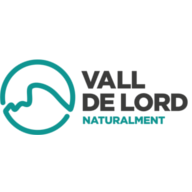
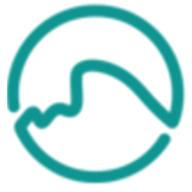
versió final app 0.1

diff --git a/src/pages/localitzacions/localitzacions.ts b/src/pages/localitzacions/localitzacions.ts
@@ -4,6 +4,7 @@ import { Component } from '@angular/core';
 import { IonicPage, NavController, NavParams } from 'ionic-angular';
 import { Geolocation, Coordinates} from '@ionic-native/geolocation';
 import { Platform } from 'ionic-angular';
+import { LoadingController } from 'ionic-angular';
 import { NgPipesModule } from 'ngx-pipes';
 import {ReversePipe} from 'ngx-pipes/src/app/pipes/array/reverse';
 import { DatabaseProvider } from '../../providers/database/database';
@@ -25,6 +26,7 @@ import 'rxjs/add/operator/map';
 })
 export class LocalitzacionsPage {
   localitzacions: Array<any>;
+  private loading: any;
   public items: any;
   //private coords: Coordinates = null;
   map: any;
@@ -36,12 +38,19 @@ export class LocalitzacionsPage {
     public navParams: NavParams,
     private http:Http,
     private geolocation: Geolocation,
-    public  platform: Platform
+    public  platform: Platform,
+    public loadingController: LoadingController
   ) {
-    
+
     platform.ready().then(() => {
+
       // La plataforma esta lista y ya tenemos acceso a los plugins.
       this.obtenerPosicion();
+      this.loading = this.loadingController.create({
+        content: 'Carregant...'
+      });
+
+      this.loading.present();
       this.searchLocalitzacio(this.coords.lat,this.coords.lng);
     });
   }
@@ -57,6 +66,7 @@ export class LocalitzacionsPage {
   searchLocalitzacio(lat,lon){
     this.DatabaseProvider.getLocalitzacions(lat,lon).subscribe(
       data => {
+
         //SERVER_NAME_APP_TEST servidor online
         //SERVER_NAME_LOCAL servudor local
         //SERVER_NAME_PROXY proxy
@@ -64,11 +74,13 @@ export class LocalitzacionsPage {
         this.items = JSON.parse(data['_body']);
         this.items.image = url+this.items.image;
         console.dir(this.items);
+        this.loading.dismiss();
         },
 				err => {
 					console.log("Error: " + err);
 				},
 () => console.log('Movie Search Complete')
+
 );
   }
   ionViewDidLoad() {

diff --git a/src/pages/localitzacions/localitzacions.html b/src/pages/localitzacions/localitzacions.html
@@ -5,19 +5,20 @@
   Ionic pages and navigation.
 -->
 <ion-header>
-
   <ion-navbar>
-    <ion-title>localitzacions</ion-title>
+    <ion-title>
+      <img src="assets/img/logo-vdl-mini.png"/> Punts d'interès
+    </ion-title>
   </ion-navbar>
-
 </ion-header>
 
 
-<ion-content padding>
-  <button ion-button color="secondary" (click)="obtenerPosicion()">Iniciar</button>
+<ion-content padding class="home_background">
+
   <h2>Latitud: {{coords.lat}}</h2>
   <h2>Longitud: {{coords.lng}}</h2>
-  <!--<ion-item>
+  <!--<button ion-button color="secondary" (click)="obtenerPosicion()">Iniciar</button>
+  <ion-item>
   <button ion-button color="secondary" (click)="searchLocalitzacio(1.234,12.444)">Go To next</button><br>
   <span id="prova">xxxx</span><br>
 </ion-item>-->
@@ -53,9 +54,9 @@
         <h3>Longitud :{{item.longitud}}</h3>
       </ion-col>
     </ion-row>
-    <ion-row>
+    <ion-col>
       <h3>Distancia :{{item.distancia}}</h3>
-    </ion-row>
+    </ion-col>
 
   </ion-card>
 </ion-content>

diff --git a/src/pages/home/home.html b/src/pages/home/home.html
@@ -1,7 +1,7 @@
 <ion-header>
   <ion-navbar>
     <ion-title>
-      <img src="assets/img/logo-vdl.png"/>
+      <img src="assets/img/logo-vdl-mini.png"/>
     </ion-title>
   </ion-navbar>
 </ion-header>
@@ -9,8 +9,8 @@
 <ion-content padding class="home_background">
   Benvingut a Descobrir la Vall de Lord.
   <p>
-    <button ion-button color="secondary" (click)="goToAbout()">Iniciar</button>
-    <button ion-button color="secondary" (click)="goToAboutEstudiantet()">Estudiantet</button>
+    <!--<button ion-button color="secondary" (click)="goToAbout()">Iniciar</button>
+    <button ion-button color="secondary" (click)="goToAboutEstudiantet()">Estudiantet</button>-->
     <button ion-button color="secondary" (click)="goToAboutLocalitzacions()">localitzacions</button>
   </p>
 </ion-content>
